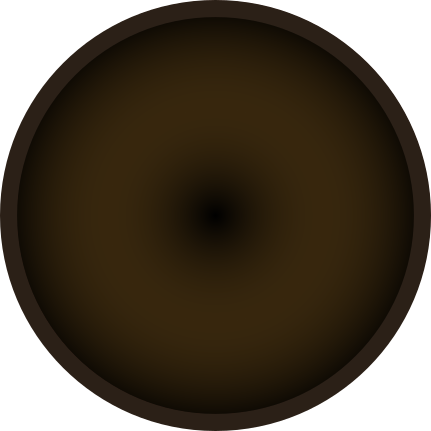
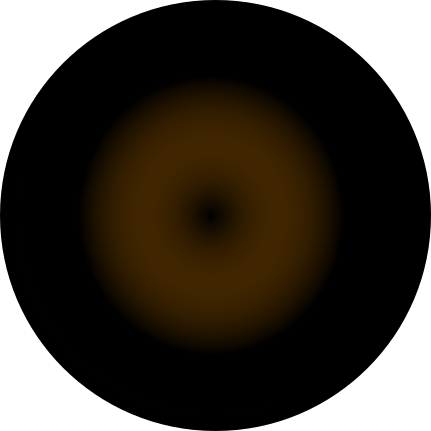
Dodane asteroidy z brakiem grawitacji.

diff --git a/src/world.cpp b/src/world.cpp
@@ -115,7 +115,9 @@ void World::removeEntity(Entity* entity) {
 sf::Vector2f World::calcGravAccel(sf::Vector2f pos) {
     sf::Vector2f res(0, 0);
     for (std::shared_ptr<GHole> h : holeEntities) {
-        res += h->acceleration(pos);
+        if(h->gravity == true) {
+            res += h->acceleration(pos);
+        }   
     }
     return res * gravity_multiplier;
 }

diff --git a/src/asteroid.cpp b/src/asteroid.cpp
@@ -9,7 +9,7 @@ Asteroid::Asteroid(sf::Vector2f position, float mass, float radius)
 : GHole(position, mass, radius) {
   texture.loadFromFile("assets/asteroid.png"); // Może rzucić failem, jeśli nie załaduje obrazka, wtedy ładuje biały trójkąt. 
   hole.setTexture(&texture, true);
-  hole.setFillColor(sf::Color::Grey);
+  gravity = false;
 }
 
 

diff --git a/include/hole.h b/include/hole.h
@@ -8,7 +8,7 @@ public:
   GHole(sf::Vector2f position, float mass, float radius);
   virtual ~GHole() = default;
   sf::Vector2f acceleration(sf::Vector2f where);
-
+  bool gravity = true;
   void input(sf::Event event);
   void update(sf::Time dt);
   void draw(sf::RenderWindow& window);

diff --git a/src/game.cpp b/src/game.cpp
@@ -21,7 +21,7 @@ int main()
     world.newTeam(sf::Color::Blue);
     world.newShip({100,100}, 1);
     world.newShip({700,500}, 2);
-    world.addHoleEntity(new Asteroid({300,400}, 700, 30));
+    world.addHoleEntity(new Asteroid({300,400}, 300, 10));
 
     world.run();
     return 0;

diff --git a/include/asteroid.h b/include/asteroid.h
@@ -5,7 +5,7 @@
 
 class Asteroid : public GHole {
 public:
-  Asteroid(sf::Vector2f position, float mass, float radius);
+  Asteroid(sf::Vector2f position, float radius, float mass);
   sf::Vector2f acceleration(sf::Vector2f where);
   void draw(sf::RenderWindow& window);
 protected:

diff --git a/src/hole.cpp b/src/hole.cpp
@@ -9,6 +9,7 @@ GHole::GHole(sf::Vector2f position, float mass, float radius)
 , mass(mass) {
   hole.setPosition(position);
   hole.setRadius(radius);
+  gravity = true;
 
   centerOrigin(hole);
 
